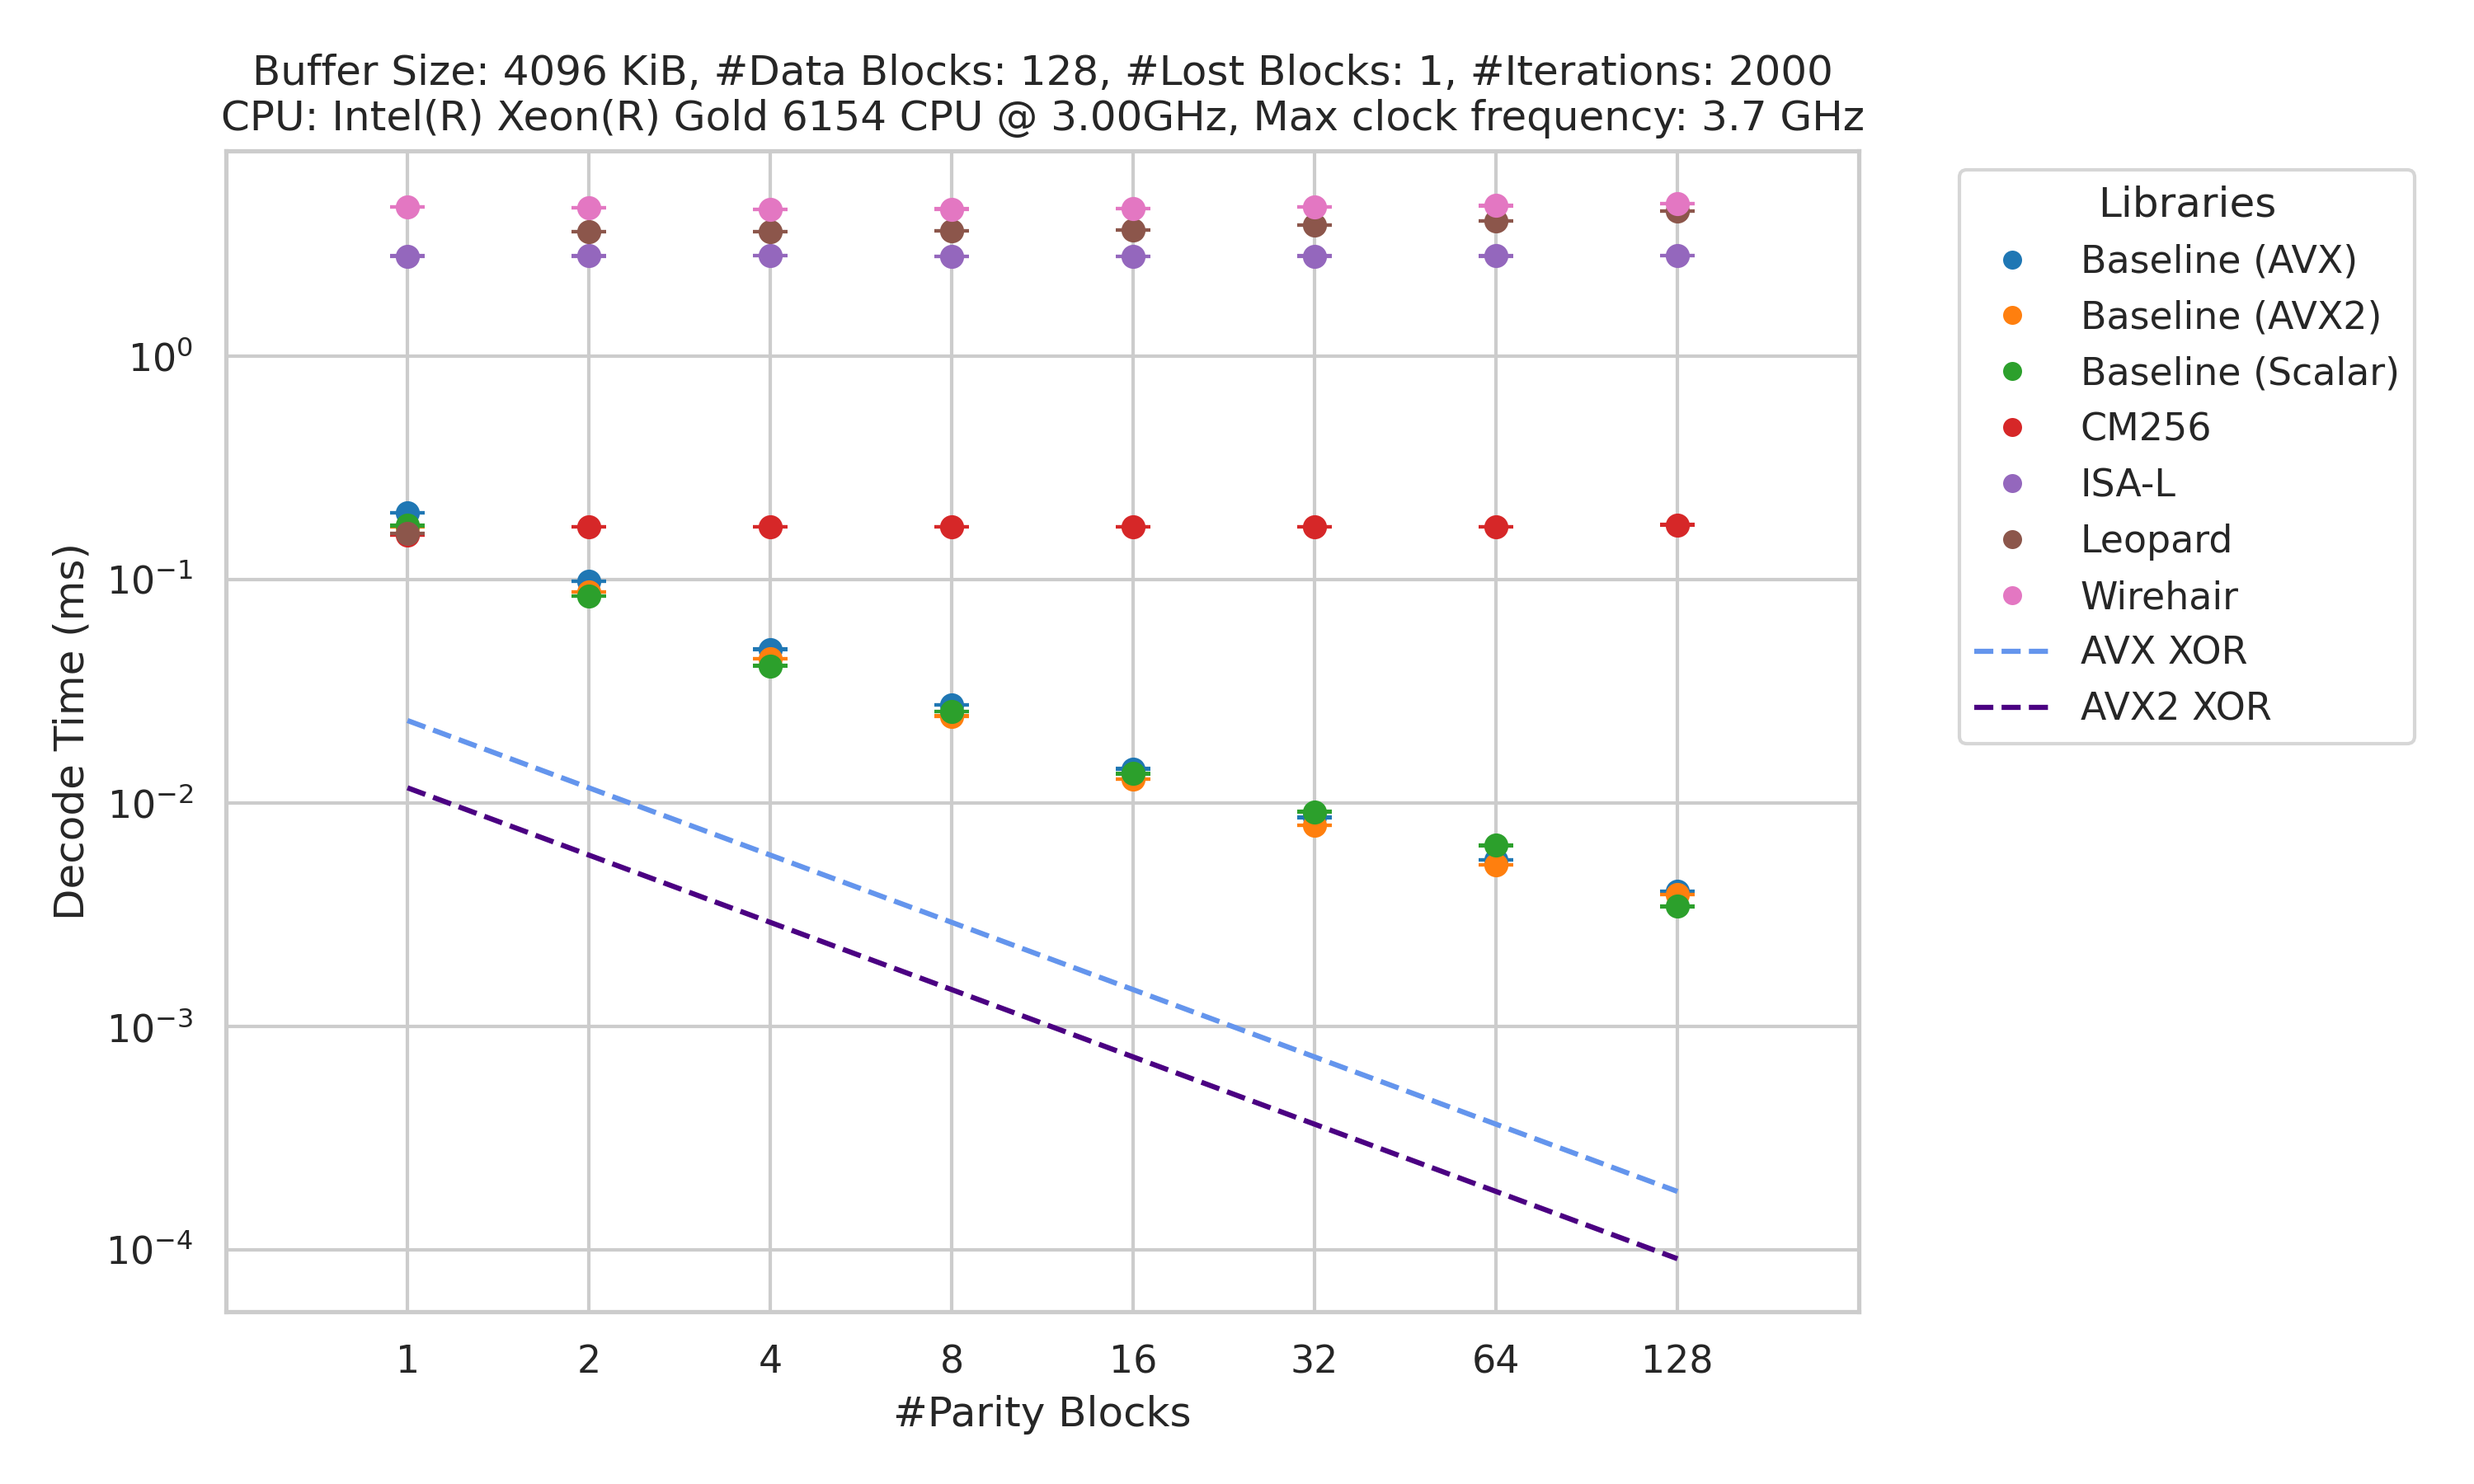
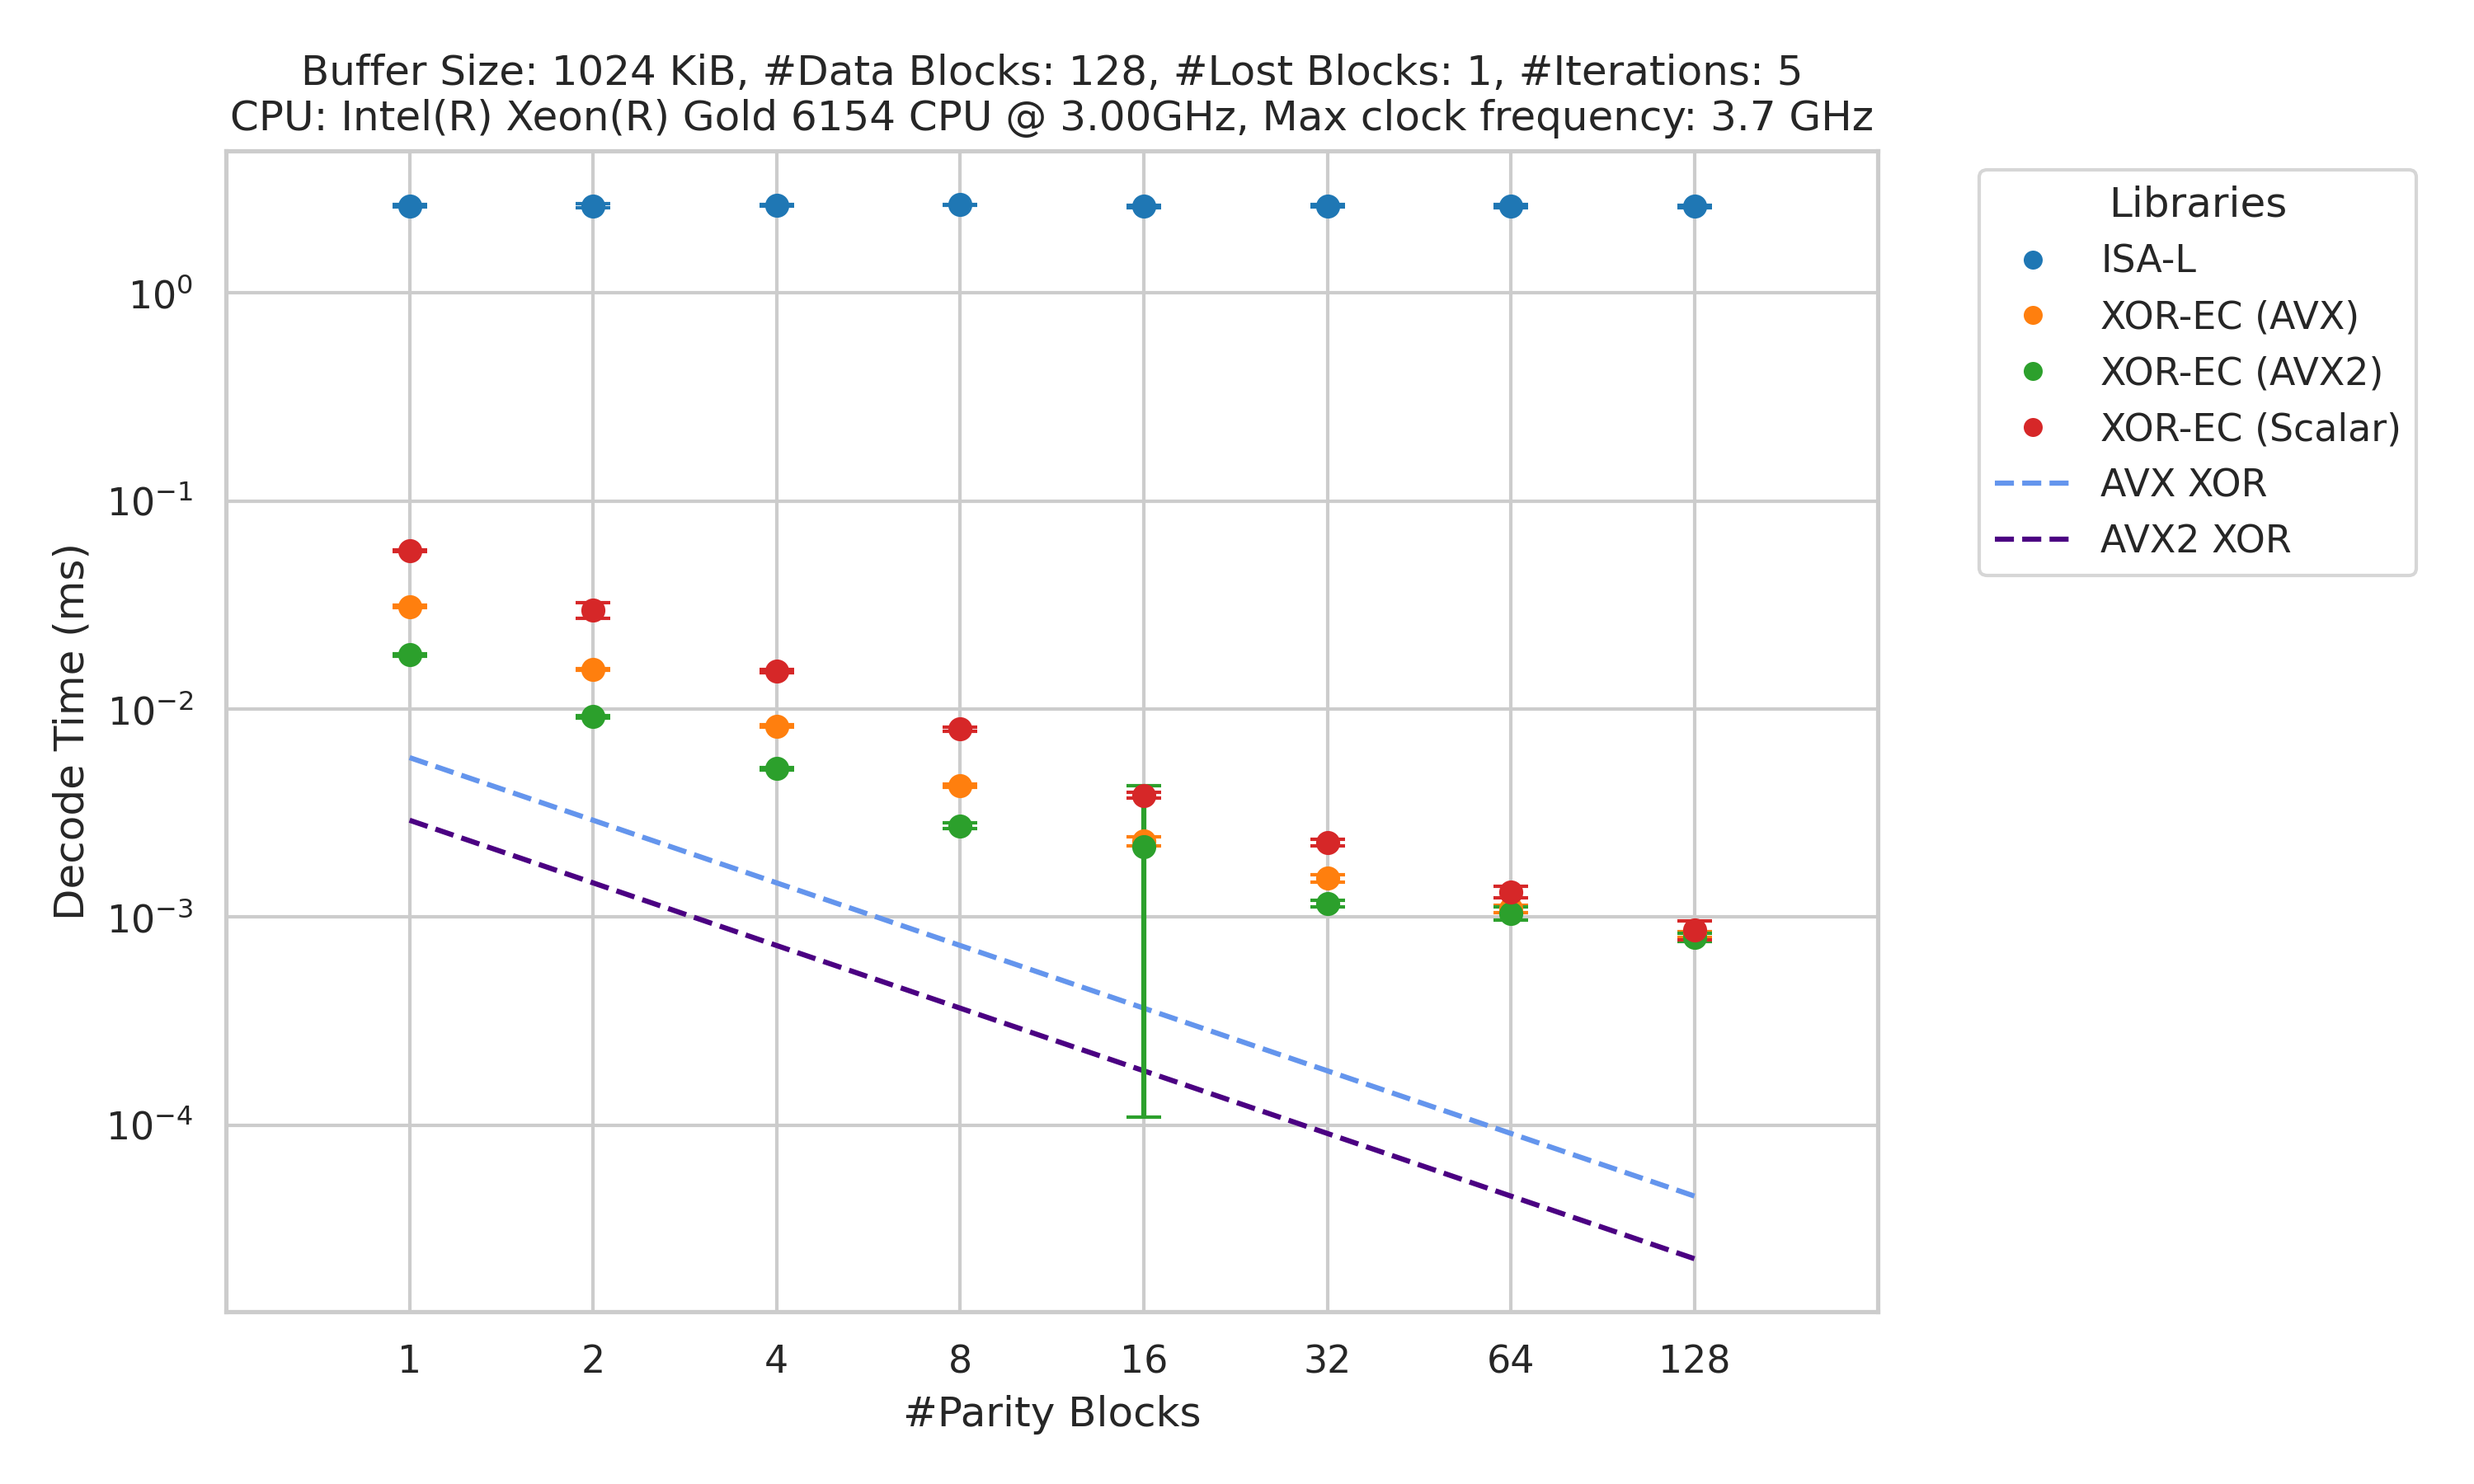
Added plotting funtionality for only plotting the XOR-EC results

diff --git a/scripts/plot_benchmark_results.py b/scripts/plot_benchmark_results.py
@@ -14,8 +14,10 @@ from enum import Enum
 # File / directory paths
 SCRIPT_DIR = os.path.dirname(os.path.abspath(__file__))
 INPUT_FILE = "undefined"
-LIN_OUTPUT_DIR = os.path.join(SCRIPT_DIR, "../results/processed/linear/")
 LOG_OUTPUT_DIR = os.path.join(SCRIPT_DIR, "../results/processed/log/")
+LIN_OUTPUT_DIR = os.path.join(SCRIPT_DIR, "../results/processed/linear/")
+XOR_LOG_OUTPUT_DIR = os.path.join(SCRIPT_DIR, "../results/processed/xor/log/")
+XOR_LIN_OUTPUT_DIR = os.path.join(SCRIPT_DIR, "../results/processed/xor/linear/")
 
 # AVX XOR / AVX2 XOR max throughput
 AVX_XOR_CPI_XEON = 0.33
@@ -75,7 +77,7 @@ def get_plot_title(df: pd.DataFrame, plot_id: int, cpu_info: CPUInfo) -> str:
 
   return titles.get(plot_id, "ERROR: Invalid plot_id")
 
-def get_output_path(x_ax: AxType, y_ax: AxType, y_scale: str) -> str:
+def get_output_path(x_ax: AxType, y_ax: AxType, y_scale: str, xor_only: bool) -> str:
   """Generate the file name for the plot."""
   ax_map = {
     AxType.ENCODE_T: "encodetime",
@@ -89,8 +91,14 @@ def get_output_path(x_ax: AxType, y_ax: AxType, y_scale: str) -> str:
 
   x_part = ax_map[x_ax]
   y_part = ax_map[y_ax]
-  file_name = f"{x_part}_vs_{y_part}_{y_scale}.png"
-  output_dir = LOG_OUTPUT_DIR if (y_scale == "log") else LIN_OUTPUT_DIR
+
+  if xor_only:
+    file_name = f"{x_part}_vs_{y_part}_{y_scale}_xor.png"
+    output_dir = XOR_LOG_OUTPUT_DIR if (y_scale == "log") else XOR_LIN_OUTPUT_DIR
+  else:
+    file_name = f"{x_part}_vs_{y_part}_{y_scale}.png"
+    output_dir = LOG_OUTPUT_DIR if (y_scale == "log") else LIN_OUTPUT_DIR
+
   return os.path.join(output_dir, file_name)
 
 def get_col_name(ax: AxType) -> str:
@@ -226,11 +234,10 @@ def plot_avx_avx2_xor(df: pd.DataFrame, x_ax: AxType, y_ax: AxType, cpu_frequenc
   plt.plot(x_values, y_values_AVX2, label="AVX2 XOR", color=AVX2_COLOR, linestyle="--")
 
 
-def write_scatter_plot(dfs: Dict[int, pd.DataFrame], x_ax: AxType, y_ax: AxType, y_scale: str, plot_id: int) -> None:
+def write_scatter_plot(df: pd.DataFrame, x_ax: AxType, y_ax: AxType, y_scale: str, plot_id: int, xor_only: bool=True) -> None:
   """Generate and save scatter plot."""
-  output_file = get_output_path(x_ax, y_ax, y_scale)
+  output_file = get_output_path(x_ax, y_ax, y_scale, xor_only)
   cpu_info = get_cpu_info()
-  df = dfs[plot_id]
 
   x_label= get_ax_label(x_ax)
   y_label = get_ax_label(y_ax)
@@ -298,8 +305,10 @@ if __name__ == "__main__":
     df[f"{col}_ms_lower"] = df[f"{col}_ms_lower"] / 1e6
     df[f"{col}_ms_upper"] = df[f"{col}_ms_upper"] / 1e6
 
+  xor_df = df[df["name"].str.contains("XOR")] 
 
   dfs = {plot_id: group for plot_id, group in df.groupby("plot_id")}
+  xor_dfs = {plot_id: group for plot_id, group in xor_df.groupby("plot_id")}
 
   plot_params = [
     # X: Buffer Size, Y: Encode/Decode Time
@@ -341,6 +350,24 @@ if __name__ == "__main__":
     (AxType.LOST_BLKS, AxType.DECODE_TP, "log", 2)
   ]
 
-  for params in plot_params:
-    write_scatter_plot(dfs, *params)
+
+  for x_ax, y_ax, scale, plot_id in plot_params:
+    write_scatter_plot(dfs[plot_id], x_ax, y_ax, scale, plot_id, False)
+
+  xor_only_plot_params = [
+    # X: Buffer Size, Y: Encode/Decode Time
+    (AxType.BUF_SIZE, AxType.ENCODE_T, "linear", 0, True),
+    (AxType.BUF_SIZE, AxType.DECODE_T, "linear", 0, True),
+    (AxType.BUF_SIZE, AxType.ENCODE_T, "log", 0, True),
+    (AxType.BUF_SIZE, AxType.DECODE_T, "log", 0, True),
+
+    # X: Buffer Size, Y: Encode/Decode Throughput
+    (AxType.BUF_SIZE, AxType.ENCODE_TP, "linear", 0, True),
+    (AxType.BUF_SIZE, AxType.DECODE_TP, "linear", 0, True),
+    (AxType.BUF_SIZE, AxType.ENCODE_TP, "log", 0, True),
+    (AxType.BUF_SIZE, AxType.DECODE_TP, "log", 0, True)
+  ]
+
+  for x_ax, y_ax, scale, plot_id, xor_only in xor_only_plot_params:
+    write_scatter_plot(xor_dfs[plot_id], x_ax, y_ax, scale, plot_id, xor_only)
   
